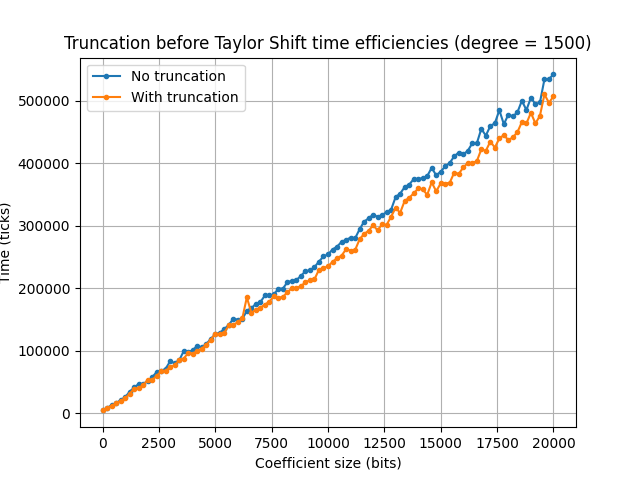
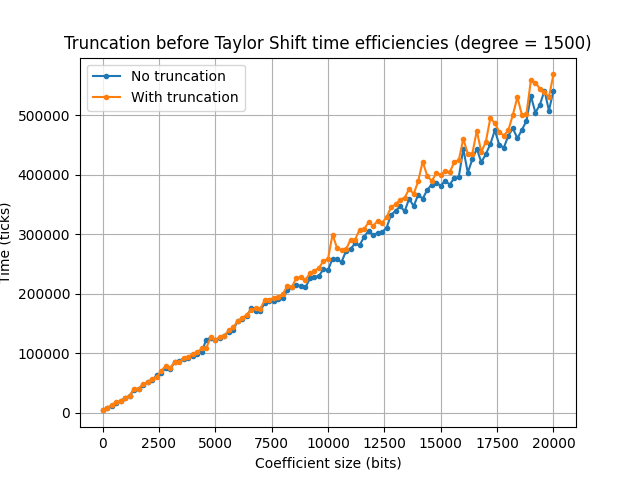
isolation validity maple automated

diff --git a/src/ValidityTests/isolationValidity.c b/src/ValidityTests/isolationValidity.c
@@ -1,6 +1,38 @@
 #include "../HeaderFiles/isolation.h"
 #include <stdio.h>
+#include <stdlib.h>
+#include <unistd.h>
 #include "../HeaderFiles/functionsForTests.h"
+
+#define MAX_ROOTS 10000
+
+
+double* read_maple_roots(const char* filename, int* count) {
+    FILE* f = fopen(filename, "r");
+    if (!f) {
+        printf("Failed to open %s\n", filename);
+        exit(1);
+    }
+    double* roots = malloc(sizeof(double) * MAX_ROOTS);
+    *count = 0;
+    while (fscanf(f, "%lf", &roots[*count]) == 1) {
+        (*count)++;
+        if (*count >= MAX_ROOTS) break;
+    }
+    fclose(f);
+    return roots;
+}
+
+
+int run_maple_script() {
+    // Essaie sur Linux natif
+    int ret = system("\"/mnt/c/Program Files/Maple 2024/bin.X86_64_WINDOWS/cmaple.exe\"  src/ValidityTests/isolationValidityScript.mpl");
+    if (ret == 0) return 0;
+    return ret;
+}
+
+
+
 
 int main(void)
 {
@@ -12,6 +44,12 @@ int main(void)
     fmpz_poly_t pol;
     fmpz_poly_init(pol);
 
+    if (run_maple_script() != 0) {
+        printf("Erreur lors de l'exécution du script Maple.\n");
+        return 1;
+    }
+
+
     FILE* filePoly;
     char pathFile[50];
     sprintf(pathFile, "src/bin/test.out");
@@ -22,7 +60,7 @@ int main(void)
     fclose(filePoly);
     //fmpz_poly_set_str(pol, "4  -4 8 -5 1");
 
-    fmpz_poly_print_pretty(pol, "x");
+    //fmpz_poly_print_pretty(pol, "x");
 
     slong nb_sol, nb_neg_sol;
     solution *solutions = NULL;
@@ -35,10 +73,11 @@ int main(void)
     fmpz_init(temp);
 
     isolation(pol, &solutions, &nb_sol, &nb_neg_sol, &upper_power_of_two_pos, &upper_power_of_two_neg);
+    printf("Isolated solutions: %ld //////// ", nb_sol);
 
-    printf("Isolated solutions: %ld,\n", nb_sol);
-
-
+    int nb_maple_roots = 0;
+    double* maple_roots = read_maple_roots("src/bin/maple_roots.txt", &nb_maple_roots);
+    printf("Maple found %d roots\n", nb_maple_roots);
 
     for (int i=nb_neg_sol-1; i>=0; i--) //we print negative roots intervals first
     {
@@ -58,7 +97,12 @@ int main(void)
             fmpz_add(temp,solutions[i].c,FMPZ_ONE);
             fmpz_mul_2exp(temp,temp, upper_power_of_two_neg);
             double upper = (fmpz_get_d(temp)) / denom;
-            printf("Solution in interval: [ %lf , %lf ]\n", -upper, -lower);
+            printf("Solution in interval: [ %lf , %lf ]", -upper, -lower);
+            double root = maple_roots[nb_neg_sol-1 - i];
+            if (root >= -upper && root <= -lower)
+                printf(" -> Maple root %lf is inside this interval yayyy\n", root);
+            else
+                printf(" -> No Maple root found inside this interval :(\n");
         }
 
         fmpz_clear(solutions[i].c);
@@ -84,7 +128,12 @@ int main(void)
             fmpz_add(temp,solutions[i].c,FMPZ_ONE);
             fmpz_mul_2exp(temp,temp,upper_power_of_two_pos);
             double upper = (fmpz_get_d(temp)) / denom;
-            printf("Solution in interval: [ %lf , %lf ]\n", lower, upper);
+            printf("Solution in interval: [ %lf , %lf ]", lower, upper);
+            double root = maple_roots[i];
+            if (root >= lower && root <= upper)
+                printf(" -> Maple root %lf is inside this interval yayyy\n", root);
+            else
+                printf(" -> No Maple root found inside this interval :(\n");
         }
 
         fmpz_clear(solutions[i].c);

diff --git a/src/ValidityTests/truncationValidity.c b/src/ValidityTests/truncationValidity.c
@@ -18,6 +18,8 @@ int main()
     fmpz_poly_init(result);
     fmpz_poly_init(TrueResult);
     fmpz_poly_init(trunc_poly);
+    fmpz_t (coeff);
+    fmpz_init(coeff);
     
 
     /*for (int i =5; i<=100; i+=10) {
@@ -33,27 +35,24 @@ int main()
         printf("bit diff = %ld\n\n", bit_diff);
     }*/
     
-    readPolyDATA(poly, 0, 100);
-    
+    readPolyDATA(poly, 0, 60);
     truncate_coefficients(trunc_poly, poly);
 
     slong threshold = 256*2;
     fmpz_poly_t* power_array;
     slong levels = compute_power_array(&power_array, poly, threshold);
-
+    
     clock_t begin = clock();
-    iterative_taylor_shift_precompute(TrueResult, poly, threshold, power_array);
+    iterative_taylor_shift_precompute(result, trunc_poly, threshold, power_array);
     clock_t end = clock();
     double tps = (double)(end - begin); // / CLOCKS_PER_SEC;
-    printf("Tps taylor shift without truncation : %f\n", tps);
-
-    begin = clock();
-    iterative_taylor_shift_precompute(result, poly, threshold, power_array);
-    end = clock();
-    tps = (double)(end - begin);
     printf("Tps taylor shift with truncation : %f\n", tps);
 
-    
+    begin = clock();
+    iterative_taylor_shift_precompute(TrueResult, poly, threshold, power_array);
+    end = clock();
+    tps = (double)(end - begin);
+    printf("Tps taylor shift without truncation : %f\n", tps);
 
     slong max_bit_before = fmpz_poly_max_bits(poly);
     printf("max_bit_before trunc = %ld\n", max_bit_before);
@@ -78,5 +77,6 @@ int main()
     fmpz_poly_clear(poly);
     fmpz_poly_clear(trunc_poly);
     fmpz_poly_clear(result);
+    fmpz_clear(coeff);
     return 0;
 }

diff --git a/src/EfficiencyTests/truncate_efficiency.c b/src/EfficiencyTests/truncate_efficiency.c
@@ -40,18 +40,20 @@ void benchmark_TS_DivConq(slong maxLen, int fixedVariable, FILE *fileResults)
 
         
         clock_t begin = clock();
-        iterative_taylor_shift_precompute(TrueResult, poly, threshold, power_array);
+        iterative_taylor_shift_precompute(result, trunc_poly, threshold, power_array);
         clock_t end = clock();
-        tabTps[i] = (double)(end - begin);
-
-        begin = clock();
-        iterative_taylor_shift_precompute(result, poly, threshold, power_array);
-        end = clock();
         tabTpsTrunc[i] = (double)(end - begin); // / CLOCKS_PER_SEC;
 
+        begin = clock();
+        iterative_taylor_shift_precompute(TrueResult, poly, threshold, power_array);
+        end = clock();
+        tabTps[i] = (double)(end - begin);
 
-        if (!same_signs(result, TrueResult))
+
+        if (!same_signs(result, TrueResult)) {
             printf("polys don't have same signs after taylor shift :(\n");
+            printf("iteration %ld, fixedVariable %d\n", i, fixedVariable);
+        }
             
 
 

diff --git a/src/Implementations/isolation.c b/src/Implementations/isolation.c
@@ -2,7 +2,6 @@
 #include <flint/fmpz.h>
 #include <flint/fmpz_poly.h>
 #include "../HeaderFiles/taylorShift_implem.h"
-#include "../HeaderFiles/coeff_truncation.h"
 
 fmpz_t FMPZ_ONE;
 
@@ -113,9 +112,6 @@ void isolation_recursive(fmpz_poly_t pol, fmpz_t c, slong k, solution *solutions
   fmpz_poly_t var_changed;
   fmpz_poly_init(var_changed);
 
-  fmpz_poly_t truncated_poly;
-  fmpz_poly_init(truncated_poly);
-
   evaluate_0(eval, pol);
   
 
@@ -146,9 +142,7 @@ void isolation_recursive(fmpz_poly_t pol, fmpz_t c, slong k, solution *solutions
     exact_root = 1;
   }
 
-  //Truncate pol before changing variable
-  fmpz_poly_set(truncated_poly, pol);
-  var_change_to_inf(var_changed, truncated_poly, power_array, threshold);
+  var_change_to_inf(var_changed, pol, power_array, threshold);
 
   int sign_changes = descartes_rule(var_changed);
 
@@ -195,7 +189,6 @@ void isolation_recursive(fmpz_poly_t pol, fmpz_t c, slong k, solution *solutions
 
   fmpz_clear(eval);
   fmpz_poly_clear(var_changed);
-  fmpz_poly_clear(truncated_poly);
 }
 
 

diff --git a/src/ValidityTests/testTronc.c b/src/ValidityTests/testTronc.c
@@ -1,0 +1,36 @@
+#include <stdio.h>
+#include <flint/fmpz.h>
+
+void print_bits(const fmpz_t x) {
+    char *bin = fmpz_get_str(NULL, 2, x);
+    printf("binaire : %s\n", bin);
+    flint_free(bin);
+}
+
+int main() {
+    fmpz_t coeff1, coeff2;
+    fmpz_init(coeff1);
+    fmpz_init(coeff2);
+
+    // Exemple avec un entier positif
+    fmpz_set_si(coeff1, 123456789);  // essaie aussi avec un négatif
+
+    flint_bitcnt_t bit_coeff = fmpz_bits(coeff1);
+    slong truncate_bits = 5;
+
+    printf("=== Avant troncature ===\n");
+    gmp_printf("coeff1 = %ld\n", coeff1);
+    printf("bit length = %lu\n", (unsigned long)bit_coeff);
+    print_bits(coeff1);
+
+    // Appliquer la troncature (tentative de ne garder QUE les bits de poids faible)
+    fmpz_tdiv_r_2exp(coeff2, coeff1, bit_coeff - truncate_bits);
+
+    printf("\n=== Après troncature (tdiv_r_2exp) ===\n");
+    gmp_printf("coeff2 = %ld\n", coeff2);
+    print_bits(coeff2);
+
+    fmpz_clear(coeff1);
+    fmpz_clear(coeff2);
+    return 0;
+}

diff --git a/src/Implementations/coeff_truncation.c b/src/Implementations/coeff_truncation.c
@@ -64,7 +64,7 @@ void truncate_coefficients(fmpz_poly_t result, const fmpz_poly_t poly) {
     slong bit_coeff;
     fmpz_t deg;
     fmpz_init_set_si(deg, len-1);
-    slong truncate_bits = (slong) (fmpz_bits(deg) + 2); // maybe +2 for extra safety
+    slong truncate_bits = (slong) (fmpz_bits(deg));
     //printf("truncating %ld bits\n", truncate_bits);
 
     for (slong i = 0; i < len; i++) {
